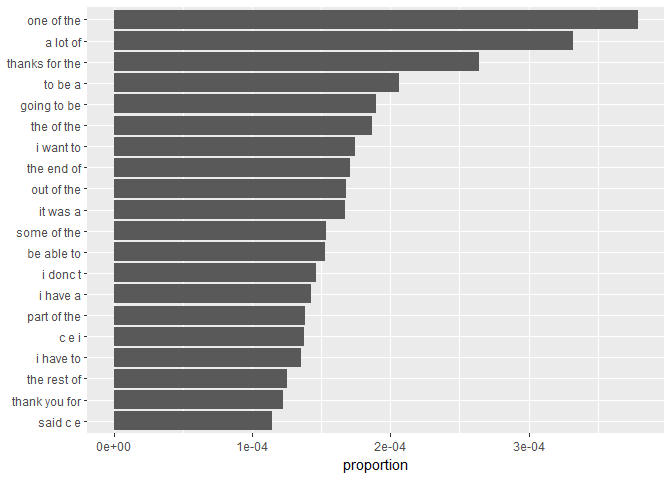
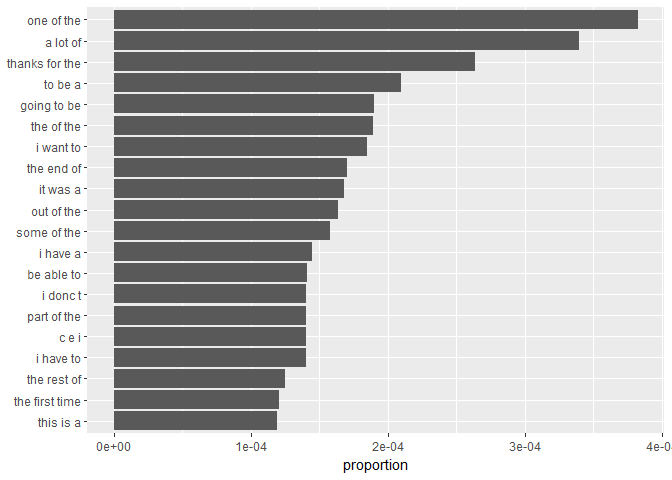
Remove gc().

diff --git a/02_Task_Script.md b/02_Task_Script.md
@@ -1,7 +1,7 @@
 Task 2: Exploratory Data Analysis
 ================
 Mark Blackmore
-2017-10-24
+2017-10-25
 
 1. Introduction
 ---------------
@@ -158,7 +158,6 @@ Clean up
 
 ``` r
 rm(blogs, blogs_nchar, news, news_nchar, twitter, twitter_nchar, replace_reg, replace_url, replace_aaa)
-x <- gc()
 ```
 
 Create tidy dataframe for repo sample
@@ -186,7 +185,7 @@ Word counts: Number of unique words in repo
     ## # A tibble: 1 x 1
     ##     keys
     ##    <int>
-    ## 1 164558
+    ## 1 164239
 
 Number of words to attain 50% and 90% coverage of all words in repo
 
@@ -200,7 +199,7 @@ cover_50 <- tidy_repo %>%
 nrow(cover_50)
 ```
 
-    ## [1] 1311
+    ## [1] 1318
 
 ``` r
 cover_90 <- tidy_repo %>%
@@ -212,7 +211,7 @@ cover_90 <- tidy_repo %>%
 nrow(cover_90)
 ```
 
-    ## [1] 18005
+    ## [1] 18078
 
 4. Word distributions
 ---------------------
@@ -272,7 +271,6 @@ Create bigrams by source using `unnest_tokens`
 
 ``` r
 rm(tidy_repo)
-x <- gc()
 
 bigram_repo <- clean_sample  %>%
   unnest_tokens(bigram, text, token = "ngrams", n = 2)
@@ -290,7 +288,7 @@ bigram_cover_90 <- bigram_repo %>%
 nrow(bigram_cover_90)
 ```
 
-    ## [1] 1424441
+    ## [1] 1425835
 
 Bigram distribution
 
@@ -328,7 +326,7 @@ trigram_cover_90 <- trigram_repo %>%
 nrow(trigram_cover_90)
 ```
 
-    ## [1] 5168063
+    ## [1] 5162845
 
 trigram distribution
 
@@ -366,7 +364,7 @@ quadgram_cover_90 <- quadgram_repo %>%
 nrow(quadgram_cover_90)
 ```
 
-    ## [1] 7327969
+    ## [1] 7314010
 
 quadgram distribution
 
@@ -388,20 +386,20 @@ quadgrams_separated <- quadgram_cover_90 %>%
 quadgrams_separated
 ```
 
-    ## # A tibble: 7,327,969 x 7
+    ## # A tibble: 7,314,010 x 7
     ##    word1 word2 word3 word4     n   proportion     coverage
     ##  * <chr> <chr> <chr> <chr> <int>        <dbl>        <dbl>
-    ##  1   the   end    of   the   789 8.752530e-05 0.0000875253
-    ##  2   the  rest    of   the   692 7.676491e-05 0.0001642902
-    ##  3    at   the   end    of   678 7.521186e-05 0.0002395021
-    ##  4   for   the first  time   623 6.911060e-05 0.0003086127
-    ##  5    at   the  same  time   511 5.668622e-05 0.0003652989
-    ##  6    is going    to    be   422 4.681328e-05 0.0004121122
-    ##  7  when    it comes    to   417 4.625862e-05 0.0004583708
-    ##  8   one    of   the  most   405 4.492744e-05 0.0005032982
-    ##  9    is   one    of   the   402 4.459464e-05 0.0005478929
-    ## 10 going    to    be     a   390 4.326346e-05 0.0005911563
-    ## # ... with 7,327,959 more rows
+    ##  1   the   end    of   the   814 9.048742e-05 9.048742e-05
+    ##  2   the  rest    of   the   683 7.592494e-05 1.664124e-04
+    ##  3   for   the first  time   655 7.281236e-05 2.392247e-04
+    ##  4    at   the   end    of   653 7.259003e-05 3.118147e-04
+    ##  5    at   the  same  time   521 5.791639e-05 3.697311e-04
+    ##  6    is going    to    be   442 4.913444e-05 4.188656e-04
+    ##  7  when    it comes    to   416 4.624418e-05 4.651098e-04
+    ##  8   one    of   the  most   415 4.613302e-05 5.112428e-04
+    ##  9    is   one    of   the   410 4.557720e-05 5.568200e-04
+    ## 10    if   you  want    to   382 4.246461e-05 5.992846e-04
+    ## # ... with 7,314,000 more rows
 
 ``` r
 end <- Sys.time()
@@ -409,7 +407,7 @@ end <- Sys.time()
 (run_time <- end - start_time)
 ```
 
-    ## Time difference of 10.83154 mins
+    ## Time difference of 10.85804 mins
 
 ------------------------------------------------------------------------
 
